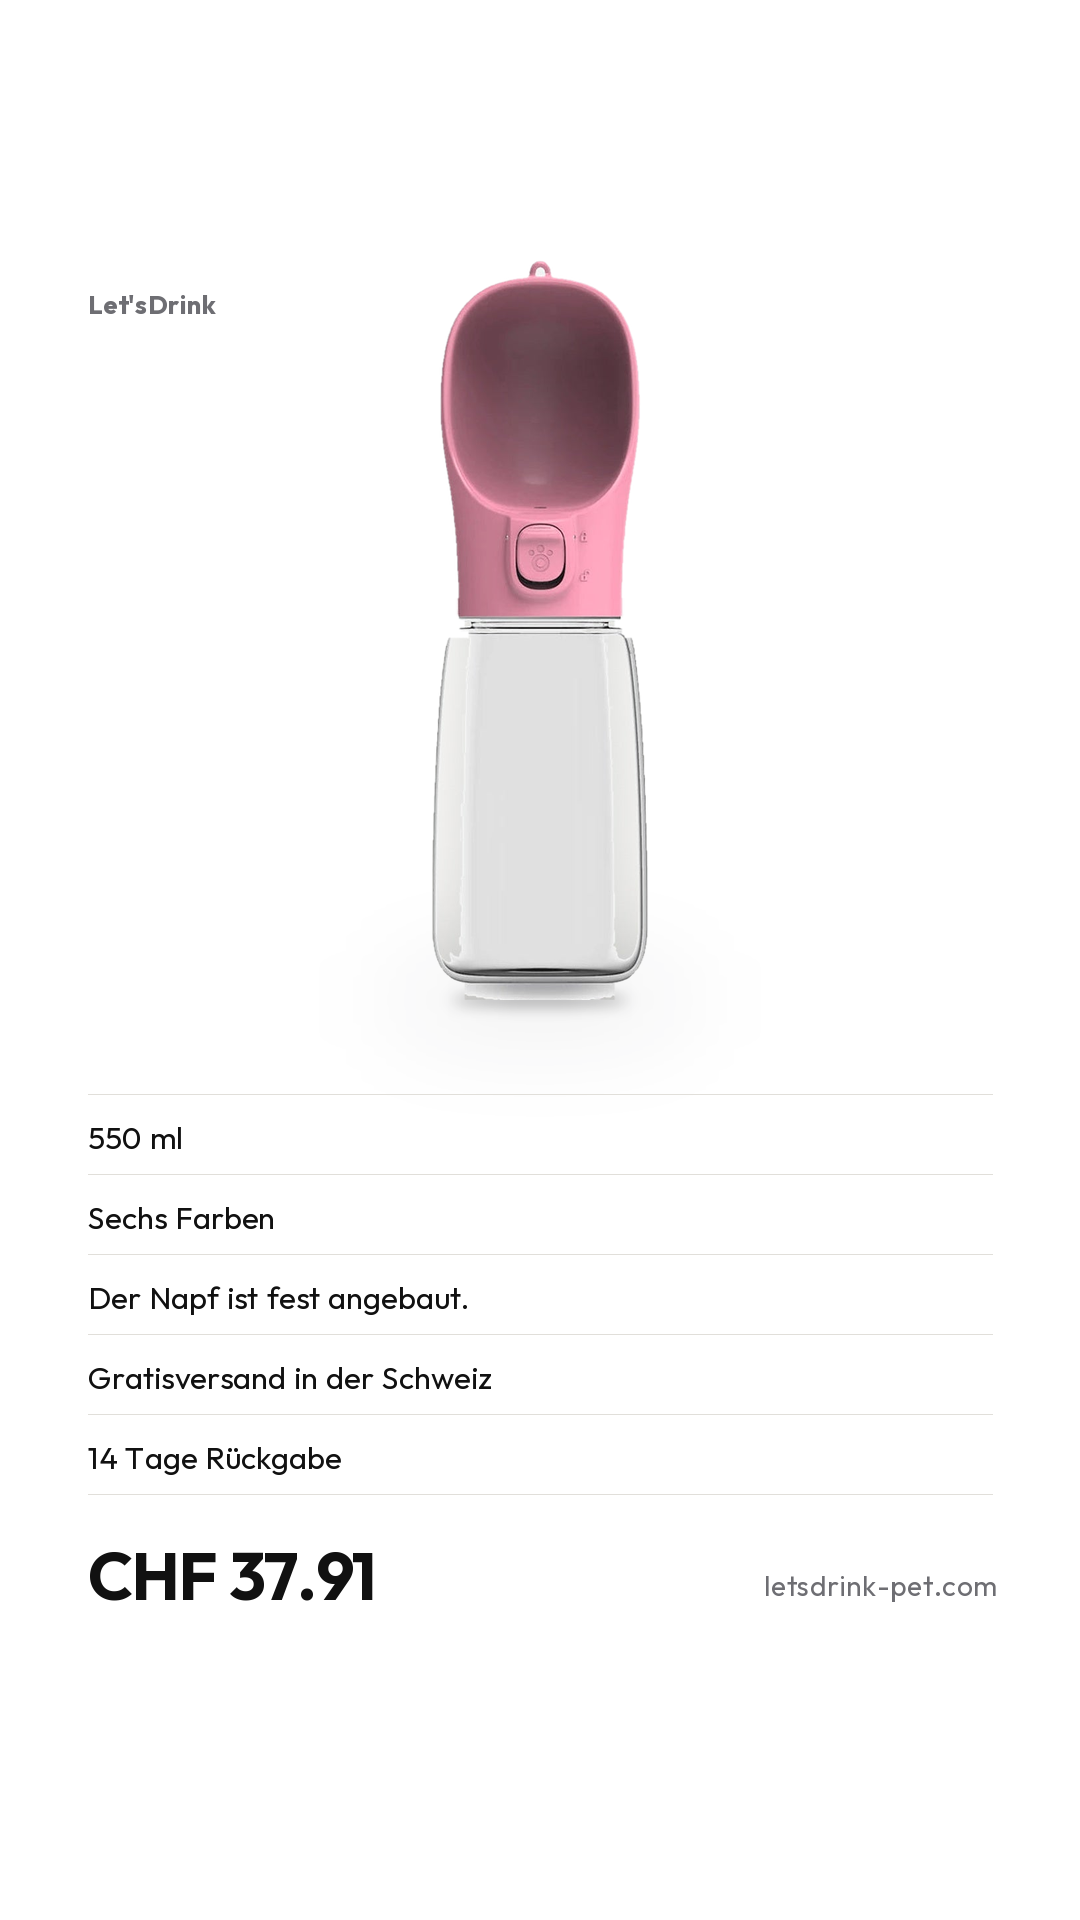
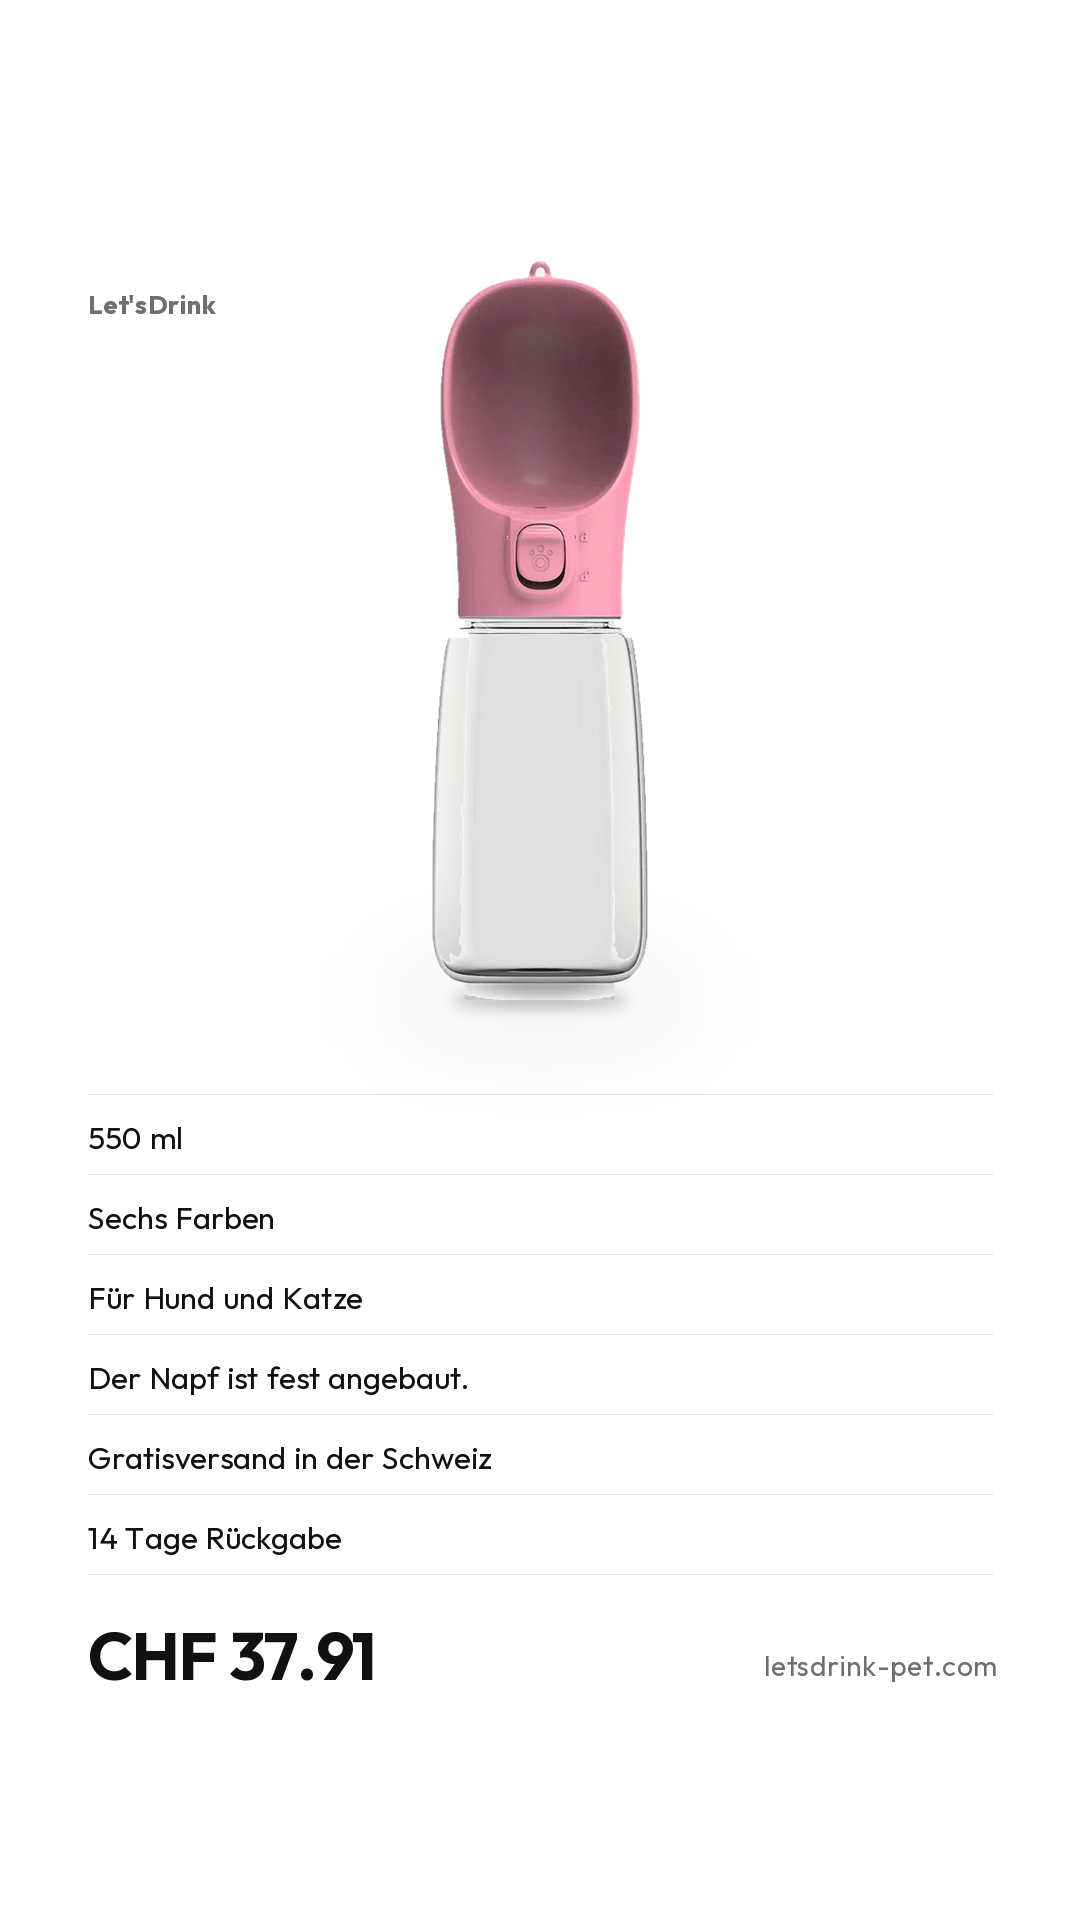
Hund und Katze sichtbar: zwei Fotomotive und die Zeile auf allen neun
Nate: 'Man soll sehen das es fuer Hund und Katze ist.' Berechtigt - auf
den sieben Studio-Motiven stand nur die Flasche. Wer sie nicht kennt,
sieht eine Trinkflasche und denkt an sich selbst.

Zwei Ebenen:

LESEN. Die Zeile 'Fuer Hund und Katze' steht jetzt auf allen neun
Motiven - als Unterzeile, bei E-fakten als Merkmal in der Liste. Vorher
stand dort '550 ml . Sechs Farben'. Breite nachgemessen: 391 px von 904
verfuegbaren, passt auch dort, wo die Flasche rechts steht.

SEHEN. Zwei neue Fotomotive:
  H-tiere  'Fuer Hund und Katze.'  - Hund, Katze und alle sechs Flaschen
  I-katze  'Auch fuer die Katze.'  - die Katze trinkt aus dem Napf

Vor der Verwendung geprueft, wie bei den Filmbildern: die Flasche auf
beiden Fotos hat klaren Koerper, tuerkisen Napf und Pfotenknopf - sie
stimmt mit dem echten Produkt ueberein. Bei 100 Prozent gegen den
Freisteller gehalten, nicht im Vorschaubild beurteilt.

Der 30-Sekunden-Film bleibt ungenutzt: seine Flasche hat einen
cremefarbenen Koerper mit eingepraegter Pfote, ein anderes Modell. Steht
als Begruendung im Kopf von h_tiere.py, damit es niemand spaeter doch
nimmt.

Aufloesung ehrlich geloest: die Tierfotos sind 955x1120 und 900x672.
Statt sie ueber die volle Flaeche zu ziehen, nehmen sie den oberen Teil
ein, darunter steht der Text auf dem ruhigen Grund der uebrigen
Familie. Vergroesserung damit unter 1.2fach statt 1.7fach.

Ein eigener Fehler dabei: die Markenzeile stand zuerst weiss auf dem
[…]

Changed region(s): [[0.0611, 0.7188, 0.4583, 0.875], [0.7028, 0.8125, 0.9167, 0.875], [0.0917, 0.6562, 0.4278, 0.6875]]

diff --git a/shop/werbung/h_tiere.py b/shop/werbung/h_tiere.py
@@ -1,0 +1,119 @@
+# -*- coding: utf-8 -*-
+"""Entwurf H und I - die Motive, auf denen ein Tier zu sehen ist.
+
+WARUM ES DIESE MOTIVE GIBT
+
+Nate am 19.8.2026: "Man soll sehen das es fuer Hund und Katze ist."
+Er hat recht. Auf den sieben Studio-Motiven steht nur die Flasche.
+Wer sie nicht kennt, sieht eine Trinkflasche und denkt an sich selbst,
+nicht an sein Tier. Die Zeile "Fuer Hund und Katze" steht jetzt auf
+allen sieben - aber lesen ist nicht sehen.
+
+WELCHES BILDMATERIAL - UND WARUM NICHT DAS ANDERE
+
+Geprueft wurde die Flasche auf jedem Bild gegen den echten Freisteller:
+
+  BENUTZT     tiere/letsdrink-hero-banner.jpg   Hund und Katze, sechs
+              Flaschen. Klarer Koerper, tuerkiser Napf, Pfotenknopf -
+              stimmt mit dem Produkt ueberein.
+  BENUTZT     tiere/letsdrink-reisen-katze.jpg  Katze trinkt aus dem
+              Napf. Bei 100 Prozent nachgesehen: gleiche Flasche.
+
+  NICHT       shop/werbung/video/letsdrink-film-30s-9x16.mp4
+              Der Film zeigt eine Flasche mit CREMEFARBENEM Koerper und
+              eingepraegter Pfote. Nates sechs Flaschen haben alle einen
+              klaren, durchsichtigen Koerper ohne Pfote. Ein anderes
+              Modell. Wer das anklickt und Nates Flasche bekommt,
+              schreibt eine Rueckgabe statt einer Empfehlung. Dazu
+              nennt sein Abspann katzenufos.com.
+
+AUFLOESUNG - EHRLICH GERECHNET
+
+Die Tierbilder sind 955x1120 und 900x672 gross, die Anzeigen brauchen
+1080 Breite. Deshalb liegt das Foto NICHT ueber die volle Flaeche,
+sondern nimmt den oberen Teil ein; darunter steht der Text auf dem
+ruhigen Grund der uebrigen Familie. So bleibt die Vergroesserung unter
+1.2fach statt bei 1.7fach, und das Motiv passt trotzdem zu den anderen
+sieben.
+"""
+import os
+from PIL import Image
+from lib_studio import (WEISS, STUDIO, TEXT, MUTED, HIER, font, text, block,
+                        linie, speichern)
+
+TIERE = os.path.join(HIER, "tiere")
+
+
+def foto(name, breite, hoehe, anker=0.5):
+    """Bild auf genau breite x hoehe bringen, ohne zu verzerren.
+
+    anker 0 = oberer Rand, 1 = unterer Rand. Bei Tierbildern liegt der
+    Kopf oben; ein zentrierter Anschnitt wuerde ihn abschneiden.
+    """
+    im = Image.open(os.path.join(TIERE, name)).convert("RGB")
+    ziel = breite / hoehe
+    ist = im.width / im.height
+    if ist > ziel:                       # zu breit -> seitlich beschneiden
+        nb = round(im.height * ziel)
+        x = round((im.width - nb) / 2)
+        im = im.crop((x, 0, x + nb, im.height))
+    else:                                # zu hoch -> oben/unten beschneiden
+        nh = round(im.width / ziel)
+        y = round((im.height - nh) * anker)
+        im = im.crop((0, y, im.width, y + nh))
+    return im.resize((breite, hoehe), Image.LANCZOS)
+
+
+def motiv(W, H, *, bild, anker, kopf, unterzeile, name, fotoanteil=0.60):
+    fh = round(H * fotoanteil)
+    img = Image.new("RGB", (W, H), WEISS)
+    img.paste(foto(bild, W, fh, anker), (0, 0))
+
+    m = round(W * 0.081)
+    kopf_gr = round(W * 0.079)
+
+    # MARKENZEILE UNTER DAS FOTO, NICHT DARAUF.
+    # Erste Fassung setzte sie weiss auf das Bild. Nachgemessen auf dem
+    # Hund-und-Katze-Motiv: der Grund dort ist helles Fell und heller
+    # Karton, Helligkeit 0.600, Kontrast zu Weiss nur 1.62 zu 1 - noetig
+    # sind 4.5. Sie war praktisch unsichtbar. Auf hellem Grund unter dem
+    # Foto steht sie sicher, und die Leserichtung stimmt trotzdem:
+    # Marke, Aussage, Preis.
+    marke_gr = round(W * 0.022)
+    y = fh + round(H * 0.040)
+    text(img, (m, y), "Let'sDrink", font(marke_gr, True), MUTED, track=0.4)
+    y += round(marke_gr * 2.1)
+
+    y = block(img, (m, y), kopf, font(kopf_gr, True),
+              lh=round(kopf_gr * 1.08), track=-kopf_gr * 0.025)
+    text(img, (m, y + round(H * 0.018)), unterzeile,
+         font(round(W * 0.027)), MUTED)
+
+    fy = H - round(H * 0.055)
+    linie(img, m, fy - round(H * 0.026), W - m)
+    text(img, (m, fy), "letsdrink-pet.com", font(round(W * 0.022)), MUTED,
+         track=0.6)
+    text(img, (W - m, fy - round(H * 0.004)), "CHF 37.91",
+         font(round(W * 0.028), True), TEXT, anchor="rs")
+    speichern(img, name)
+
+
+# --- H: Hund UND Katze in einem Bild -----------------------------------
+H_KOPF = ["Für Hund", "und Katze."]
+H_SUB = "550 ml  ·  Sechs Farben"
+H_BILD = "letsdrink-hero-banner.jpg"
+
+# --- I: die Katze allein, weil sie die Ueberraschung ist ----------------
+I_KOPF = ["Auch für", "die Katze."]
+I_SUB = "Ein Napf, der schon dran ist."
+I_BILD = "letsdrink-reisen-katze.jpg"
+
+
+if __name__ == "__main__":
+    for W, H, anteil, suffix in ((1080, 1080, 0.58, "1080x1080"),
+                                 (1080, 1920, 0.56, "1080x1920"),
+                                 (1200, 628, 0.52, "1200x628")):
+        motiv(W, H, bild=H_BILD, anker=0.35, kopf=H_KOPF, unterzeile=H_SUB,
+              fotoanteil=anteil, name="H-tiere_%s.png" % suffix)
+        motiv(W, H, bild=I_BILD, anker=0.30, kopf=I_KOPF, unterzeile=I_SUB,
+              fotoanteil=anteil, name="I-katze_%s.png" % suffix)

diff --git a/shop/werbung/b_farben.py b/shop/werbung/b_farben.py
@@ -26,7 +26,7 @@ def quadrat():
     img = studio_bg(W, H)
     text(img, (m, 76), "Let'sDrink", font(24, True), MUTED, track=0.4)
     text(img, (m, 196), "Sechs Farben.", font(92, True), TEXT, track=-2.4)
-    text(img, (m, 308), "550 ml", font(28), MUTED)
+    text(img, (m, 308), "Für Hund und Katze  ·  550 ml", font(28), MUTED)
 
     zeile(img, m, W - m, boden_y=800, hoehe=430, label_f=font(17, True))
 
@@ -43,7 +43,7 @@ def story():
     text(img, (m + 20, 280), "Let'sDrink", font(26, True), MUTED, track=0.4)
     text(img, (m + 20, 380), "Sechs", font(118, True), TEXT, track=-3.0)
     text(img, (m + 20, 508), "Farben.", font(118, True), TEXT, track=-3.0)
-    text(img, (m + 20, 690), "550 ml", font(30), MUTED)
+    text(img, (m + 20, 690), "Für Hund und Katze  ·  550 ml", font(30), MUTED)
 
     zeile(img, m, W - m, boden_y=1300, hoehe=450, label_f=font(18, True),
           label_dy=58)
@@ -63,7 +63,7 @@ def link():
     text(img, (m, 62), "Let'sDrink", font(22, True), MUTED, track=0.4)
     text(img, (m, 152), "Sechs", font(70, True), TEXT, track=-1.8)
     text(img, (m, 228), "Farben.", font(70, True), TEXT, track=-1.8)
-    text(img, (m, 330), "550 ml", font(25), MUTED)
+    text(img, (m, 330), "Für Hund und Katze  ·  550 ml", font(25), MUTED)
 
     linie(img, m, 402, 356)
     text_ink(img, m, 428, "CHF 37.91", font(32, True), TEXT, track=-0.7)

diff --git a/shop/werbung/c_napf.py b/shop/werbung/c_napf.py
@@ -31,7 +31,7 @@ def quadrat():
 
     rechts = round(cx - im.width / 2) - 28
     linie(img, m, round(fuge), rechts)
-    text(img, (m, fuge + 24), "550 ml  ·  Sechs Farben", font(26), MUTED)
+    text(img, (m, fuge + 24), "Für Hund und Katze  ·  550 ml", font(26), MUTED)
 
     text_ink(img, m, 916, "CHF 37.91", font(38, True), TEXT, track=-0.8)
     text(img, (m, 986), "letsdrink-pet.com", font(24), MUTED, track=0.6)
@@ -55,7 +55,7 @@ def story():
 
     bw = round(hoehe * 650 / 2212)
     linie(img, m, round(fuge), 812 - bw // 2 - 30)
-    text(img, (m, fuge + 26), "550 ml", font(30), MUTED)
+    text(img, (m, fuge + 26), "Für Hund und Katze  ·  550 ml", font(30), MUTED)
     text(img, (m, fuge + 70), "Sechs Farben", font(30), MUTED)
 
     text_ink(img, m, 1436, "CHF 37.91", font(56, True), TEXT, track=-1.2)
@@ -80,7 +80,7 @@ def link():
           font(62, True), lh=68, track=-1.5)
 
     linie(img, m, fuge_ziel, round(cx - im.width / 2) - 26)
-    text(img, (m, fuge_ziel + 22), "550 ml  ·  Sechs Farben", font(24), MUTED)
+    text(img, (m, fuge_ziel + 22), "Für Hund und Katze  ·  550 ml", font(24), MUTED)
 
     text_ink(img, m, H - m - 44, "CHF 37.91", font(32, True), TEXT, track=-0.7)
     text(img, (m + 230, H - m - 40), "letsdrink-pet.com", font(23), MUTED, track=0.6)

diff --git a/shop/werbung/d_volumen.py b/shop/werbung/d_volumen.py
@@ -25,7 +25,7 @@ def hochformat(W, H, m, *, hoehe, boden_y, regel_y, giant_h, giant_w,
     text_ink(img, m, regel_y + round(giant_h * 0.24), "550 ml", font(gs, True),
              TEXT, track=-gs * 0.02)
 
-    text(img, (m, foot_y), "Sechs Farben", font(foot_s), MUTED)
+    text(img, (m, foot_y), "Für Hund und Katze", font(foot_s), MUTED)
     text(img, (m, foot_y + round(foot_s * 1.55)), "letsdrink-pet.com",
          font(foot_s), MUTED, track=0.6)
     text(img, (W - m, foot_y - round(price_s * 0.14)), "CHF 37.91",
@@ -47,7 +47,7 @@ def link():
     gs = fit_ink_height("550 ml", 104, True, track=-2.0, max_breite=ex - sx)
     text_ink(img, sx, 268, "550 ml", font(gs, True), TEXT, track=-gs * 0.02)
 
-    text(img, (sx, 424), "Sechs Farben", font(24), MUTED)
+    text(img, (sx, 424), "Für Hund und Katze", font(24), MUTED)
     text_ink(img, sx, 476, "CHF 37.91", font(34, True), TEXT, track=-0.7)
     text(img, (sx, 534), "letsdrink-pet.com", font(23), MUTED, track=0.6)
     speichern(img, "D-volumen_1200x628.png")

diff --git a/shop/werbung/g_einer.py b/shop/werbung/g_einer.py
@@ -24,7 +24,7 @@ dauerhaft gestrichen, hier auf Grau wechseln.
 from lib_studio import *
 
 FARBE = "rosa"
-SUB = "550 ml  ·  Sechs Farben"
+SUB = "Für Hund und Katze  ·  550 ml"
 
 
 def quadrat():
@@ -37,6 +37,7 @@ def quadrat():
     y = block(img, (m, 348), ["Ein Gegenstand", "statt zwei."], font(76, True),
               lh=84, track=-1.9)
     text(img, (m, y + 34), "Flasche und Napf sind eins.", font(29), MUTED)
+    text(img, (m, y + 76), SUB, font(25), MUTED)
 
     linie(img, m, H - m - 64, W - m)
     text(img, (m, H - m - 34), "letsdrink-pet.com", font(24), MUTED, track=0.6)
@@ -76,6 +77,7 @@ def link():
     y = block(img, (m, 186), ["Ein Gegenstand", "statt zwei."], font(64, True),
               lh=70, track=-1.6)
     text(img, (m, y + 24), "Flasche und Napf sind eins.", font(25), MUTED)
+    text(img, (m, y + 60), SUB, font(22), MUTED)
 
     linie(img, m, H - m - 56, 640)
     text(img, (m, H - m - 32), "letsdrink-pet.com", font(23), MUTED, track=0.6)

diff --git a/shop/werbung/f_rest.py b/shop/werbung/f_rest.py
@@ -27,7 +27,7 @@ dasselbe.
 from lib_studio import *
 
 FARBE = "gruen"
-SUB = "550 ml  ·  Sechs Farben"
+SUB = "Für Hund und Katze  ·  550 ml"
 
 
 def quadrat():
@@ -40,6 +40,7 @@ def quadrat():
     y = block(img, (m, 348), ["Der Rest", "läuft", "zurück."], font(88, True),
               lh=96, track=-2.2)
     text(img, (m, y + 34), "Kein Wasser, das du wegkippst.", font(29), MUTED)
+    text(img, (m, y + 76), SUB, font(25), MUTED)
 
     linie(img, m, H - m - 64, W - m)
     text(img, (m, H - m - 34), "letsdrink-pet.com", font(24), MUTED, track=0.6)
@@ -78,6 +79,7 @@ def link():
     y = block(img, (m, 176), ["Der Rest läuft", "zurück."], font(72, True),
               lh=78, track=-1.8)
     text(img, (m, y + 24), "Kein Wasser, das du wegkippst.", font(25), MUTED)
+    text(img, (m, y + 60), SUB, font(22), MUTED)
 
     linie(img, m, H - m - 56, 640)
     text(img, (m, H - m - 32), "letsdrink-pet.com", font(23), MUTED, track=0.6)

diff --git a/shop/werbung/e_fakten.py b/shop/werbung/e_fakten.py
@@ -7,6 +7,7 @@ from lib_studio import *
 FARBE = "rosa"
 FAKTEN = ["550 ml",
           "Sechs Farben",
+          "Für Hund und Katze",
           "Der Napf ist fest angebaut.",
           "Gratisversand in der Schweiz",
           "14 Tage Rückgabe"]

diff --git a/shop/werbung/a_hand.py b/shop/werbung/a_hand.py
@@ -4,7 +4,7 @@ Story haelt die Story-Sicherheitszone (Inhalt zwischen y=260 und y=1620)."""
 from lib_studio import *
 
 FARBE = "tuerkis"
-SUB = "550 ml  ·  Sechs Farben"
+SUB = "Für Hund und Katze  ·  550 ml"
 
 
 def quadrat():
